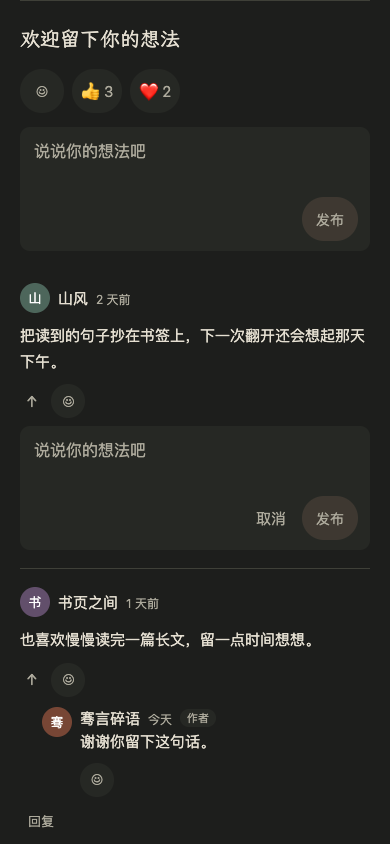
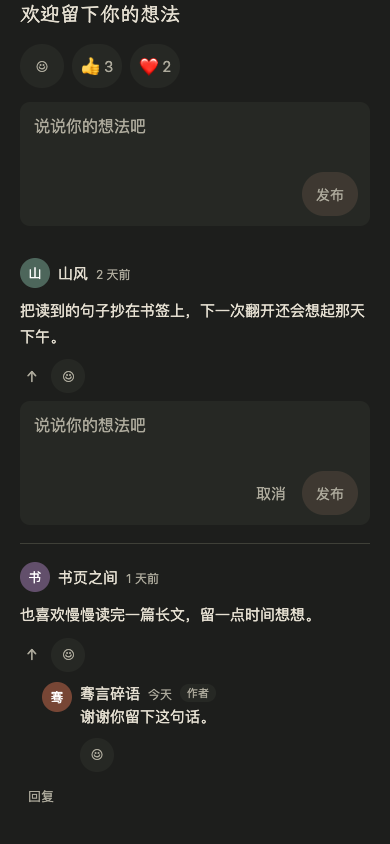
fix: refine lazy comment reveal and reaction dismissal

diff --git a/docs/m5.4/README.md b/docs/m5.4/README.md
@@ -4,7 +4,7 @@
 
 ## 实现
 
-- [Comments.astro](../../src/components/Comments.astro) 使用官方原生脚本，继承 M4 的正文宽度、分隔线、颜色和控件样式。滚动至评论区进入视口时启动加载，等待期间显示「正在载入留言」。短文首屏已包含评论区时，读者可直接点击「加载评论」。沉浸阅读隐藏评论区，退出后恢复原 iframe。
+- [Comments.astro](../../src/components/Comments.astro) 使用官方原生脚本，继承 M4 的正文宽度、颜色和控件样式。滚动至评论区进入视口时启动加载，等待期间显示逐渐着墨的笔刷和「正在载入留言」。标题随评论内容就绪后显示，标题上方留白。短文首屏已包含评论区时，读者可直接点击「加载评论」。沉浸阅读隐藏评论区，退出后恢复原 iframe。
 - [配置](../../src/lib/comments.ts) 将永久 `articleId` 映射为 `article-${articleId}`，在 `Article Comments` 分类内严格匹配。文章的 Canonical URL 通过 `giscus:backlink` 传给 Giscus，供创建讨论时写入正文。文章改标题或 Slug 时，既有讨论继续关联同一 Article ID。既有讨论正文中的回链仍是创建当时的地址。 [Giscus 高级用法](https://github.com/giscus/giscus/blob/main/ADVANCED-USAGE.md)
 - 网站显式或系统主题变化时，通过 `postMessage` 将浅色或深色主题地址发给当前 iframe。接收时同时验证来源和 iframe。首次评论或回应由 Giscus 按需建立讨论。
 - 脚本错误、服务错误或 15 秒无就绪消息时显示重试。脚本失败后可以重新请求，已有 iframe 时重载该 iframe。正式构建也只在 `https://qians.day` 启用评论。[giscus.json](../../giscus.json) 在 GitHub 默认分支生效，来源仅允许正式站点。
@@ -20,6 +20,8 @@ Ego Lite 检查过 1440 px 桌面和 390 px 触屏的明暗布局、总数隐藏
 ### 表情和回复复验
 
 表情选择器覆盖在评论内容上，展开时已发布的表情保持位置与尺寸。访客可看到登录提示和八种表情。登录后浮层只显示八种可操作的表情。留言及回复显示 GitHub 头像，站点作者 `nealzhu` 的时间后显示「作者」。一级留言的回应按钮缩小，登录后可通过该条留言的「回复」打开原生回复框。嵌套回复只使用缩进。
+
+点击浮层以外的评论内容会收起菜单。隔离预览在 iframe 失焦时也会收起。正式 Giscus 的点击监听范围是评论 iframe。 [Giscus 浮层实现](https://github.com/giscus/giscus/blob/main/lib/hooks.ts)
 
 GitHub 留言旁的原生 ↑ 保留为只读计数，Giscus 当前禁用了该按钮的提交。登录后可在表情浮层选择 👍 表达赞同。 [Giscus 官方实现](https://github.com/giscus/giscus/blob/main/components/Comment.tsx) · [GitHub API 限制](https://github.com/orgs/community/discussions/3968)
 
